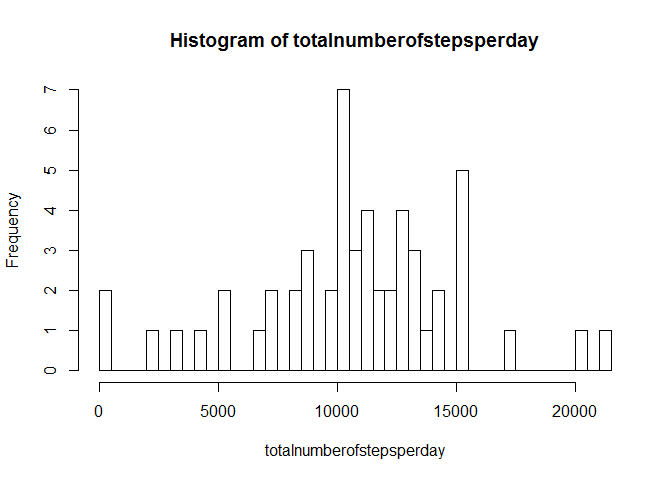
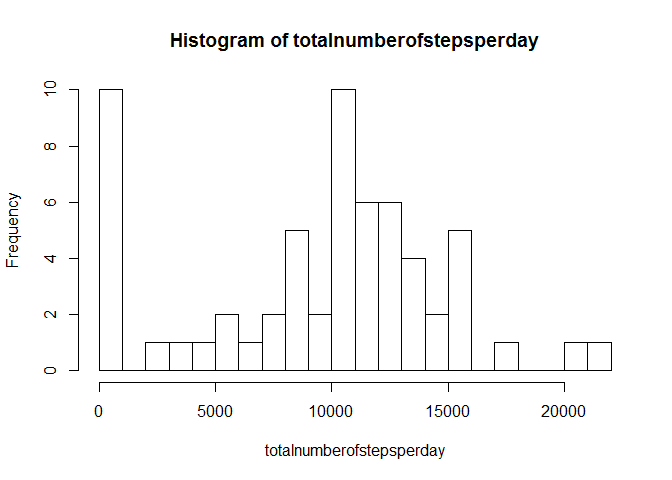
update to assignment

diff --git a/PA1_template.html b/PA1_template.html
@@ -77,25 +77,55 @@ datafile &lt;- read.csv(&quot;activity.csv&quot;)
 # Preprocessing the data
 # Remove incomplete observations from datafile
 
-datafile &lt;- datafile[complete.cases(datafile),]</code></pre>
+#datafile &lt;- datafile[complete.cases(datafile),]</code></pre>
 </div>
 </div>
 <div id="what-is-mean-total-number-of-steps-taken-per-day" class="section level2">
 <h2>What is mean total number of steps taken per day?</h2>
-<pre class="r"><code>totalnumberofstepsperday &lt;- tapply(datafile$steps, datafile$date, sum, na.rm=TRUE)
+<pre class="r"><code># Create a dataframe with the total number of steps per day
+
+totalnumberofstepsperday &lt;- tapply(datafile$steps, datafile$date, sum, na.rm=TRUE)
 totalnumberofstepsperday &lt;- totalnumberofstepsperday[complete.cases(totalnumberofstepsperday)]
-hist(totalnumberofstepsperday, breaks = 40,)</code></pre>
[1 lines of base64/hex data omitted]
-<pre class="r"><code>mean(totalnumberofstepsperday)</code></pre>
-<pre><code>## [1] 10766.19</code></pre>
-<pre class="r"><code>median(totalnumberofstepsperday)</code></pre>
-<pre><code>## [1] 10765</code></pre>
+
+# Create a histogram of the dataframe with the total number of steps per day
+
+hist(totalnumberofstepsperday, breaks = 20,)</code></pre>
[1 lines of base64/hex data omitted]
+<pre class="r"><code># Calculate the mean number of steps per day
+
+mean(totalnumberofstepsperday, na.rm=TRUE)</code></pre>
+<pre><code>## [1] 9354.23</code></pre>
+<pre class="r"><code># Calculate the median number of steps per day
+
+median(totalnumberofstepsperday, na.rm=TRUE)</code></pre>
+<pre><code>## [1] 10395</code></pre>
 </div>
 <div id="what-is-the-average-daily-activity-pattern" class="section level2">
 <h2>What is the average daily activity pattern?</h2>
+<div id="make-a-time-series-plot-i.e.type-l-of-the-5-minute-interval-x-axis-and-the-average-number-of-steps-taken-averaged-across-all-days-y-axis" class="section level5">
+<h5>Make a time series plot (i.e. type = “l”) of the 5-minute interval (x-axis) and the average number of steps taken, averaged across all days (y-axis)</h5>
+<pre class="r"><code># Create a dataframe with the mean steps for each five minute interval.
+FiveMinuteIntervals &lt;- tapply(datafile$steps, datafile$interval, mean, na.rm = TRUE)
+plot(FiveMinuteIntervals, type = &quot;l&quot;)</code></pre>
[1 lines of base64/hex data omitted]
+</div>
+<div id="which-5-minute-interval-on-average-across-all-the-days-in-the-dataset-contains-the-maximum-number-of-steps" class="section level5">
+<h5>Which 5-minute interval, on average across all the days in the dataset, contains the maximum number of steps?</h5>
+<pre class="r"><code>which.max(FiveMinuteIntervals)</code></pre>
+<pre><code>## 835 
+## 104</code></pre>
+</div>
+<div id="it-turns-out-two-5-minute-intervals-contain-the-maximum-number-of-steps" class="section level5">
+<h5>It turns out two 5-minute intervals contain the maximum number of steps</h5>
+</div>
 </div>
 <div id="imputing-missing-values" class="section level2">
 <h2>Imputing missing values</h2>
+<div id="calculate-and-report-the-total-number-of-missing-values-in-the-dataset-i.e.the-total-number-of-rows-with-nas" class="section level5">
+<h5>Calculate and report the total number of missing values in the dataset (i.e. the total number of rows with NAs)</h5>
+<pre class="r"><code>sum(is.na(datafile))</code></pre>
+<pre><code>## [1] 2304</code></pre>
+</div>
 </div>
 <div id="are-there-differences-in-activity-patterns-between-weekdays-and-weekends" class="section level2">
 <h2>Are there differences in activity patterns between weekdays and weekends?</h2>

diff --git a/PA1_template.md b/PA1_template.md
@@ -1,7 +1,7 @@
 # Reproducible Research: Peer Assessment 1
 
 
-## Loading and preprocessing the data
+## Loading and preprocessing the data  
 ##### The activity.zip file has already been unpacked via the git cml
 
 
@@ -15,42 +15,81 @@ datafile <- read.csv("activity.csv")
 # Preprocessing the data
 # Remove incomplete observations from datafile
 
-datafile <- datafile[complete.cases(datafile),]
+#datafile <- datafile[complete.cases(datafile),]
 ```
 
 ## What is mean total number of steps taken per day?
 
 
 ```r
+# Create a dataframe with the total number of steps per day
+
 totalnumberofstepsperday <- tapply(datafile$steps, datafile$date, sum, na.rm=TRUE)
 totalnumberofstepsperday <- totalnumberofstepsperday[complete.cases(totalnumberofstepsperday)]
-hist(totalnumberofstepsperday, breaks = 40,)
+
+# Create a histogram of the dataframe with the total number of steps per day
+
+hist(totalnumberofstepsperday, breaks = 20,)
 ```
 
 ![](PA1_template_files/figure-html/unnamed-chunk-2-1.png) 
 
 ```r
-mean(totalnumberofstepsperday)
+# Calculate the mean number of steps per day
+
+mean(totalnumberofstepsperday, na.rm=TRUE)
 ```
 
 ```
-## [1] 10766.19
+## [1] 9354.23
 ```
 
 ```r
-median(totalnumberofstepsperday)
+# Calculate the median number of steps per day
+
+median(totalnumberofstepsperday, na.rm=TRUE)
 ```
 
 ```
-## [1] 10765
+## [1] 10395
 ```
 
 ## What is the average daily activity pattern?
 
+##### Make a time series plot (i.e. type = "l") of the 5-minute interval (x-axis) and the average number of steps taken, averaged across all days (y-axis)
 
+```r
+# Create a dataframe with the mean steps for each five minute interval.
+FiveMinuteIntervals <- tapply(datafile$steps, datafile$interval, mean, na.rm = TRUE)
+plot(FiveMinuteIntervals, type = "l")
+```
 
+![](PA1_template_files/figure-html/unnamed-chunk-3-1.png) 
+
+##### Which 5-minute interval, on average across all the days in the dataset, contains the maximum number of steps?
+
+```r
+which.max(FiveMinuteIntervals)
+```
+
+```
+## 835 
+## 104
+```
+
+##### It turns out two 5-minute intervals contain the maximum number of steps
 
 ## Imputing missing values
+
+##### Calculate and report the total number of missing values in the dataset (i.e. the total number of rows with NAs)
+
+```r
+sum(is.na(datafile))
+```
+
+```
+## [1] 2304
+```
 
 
 
